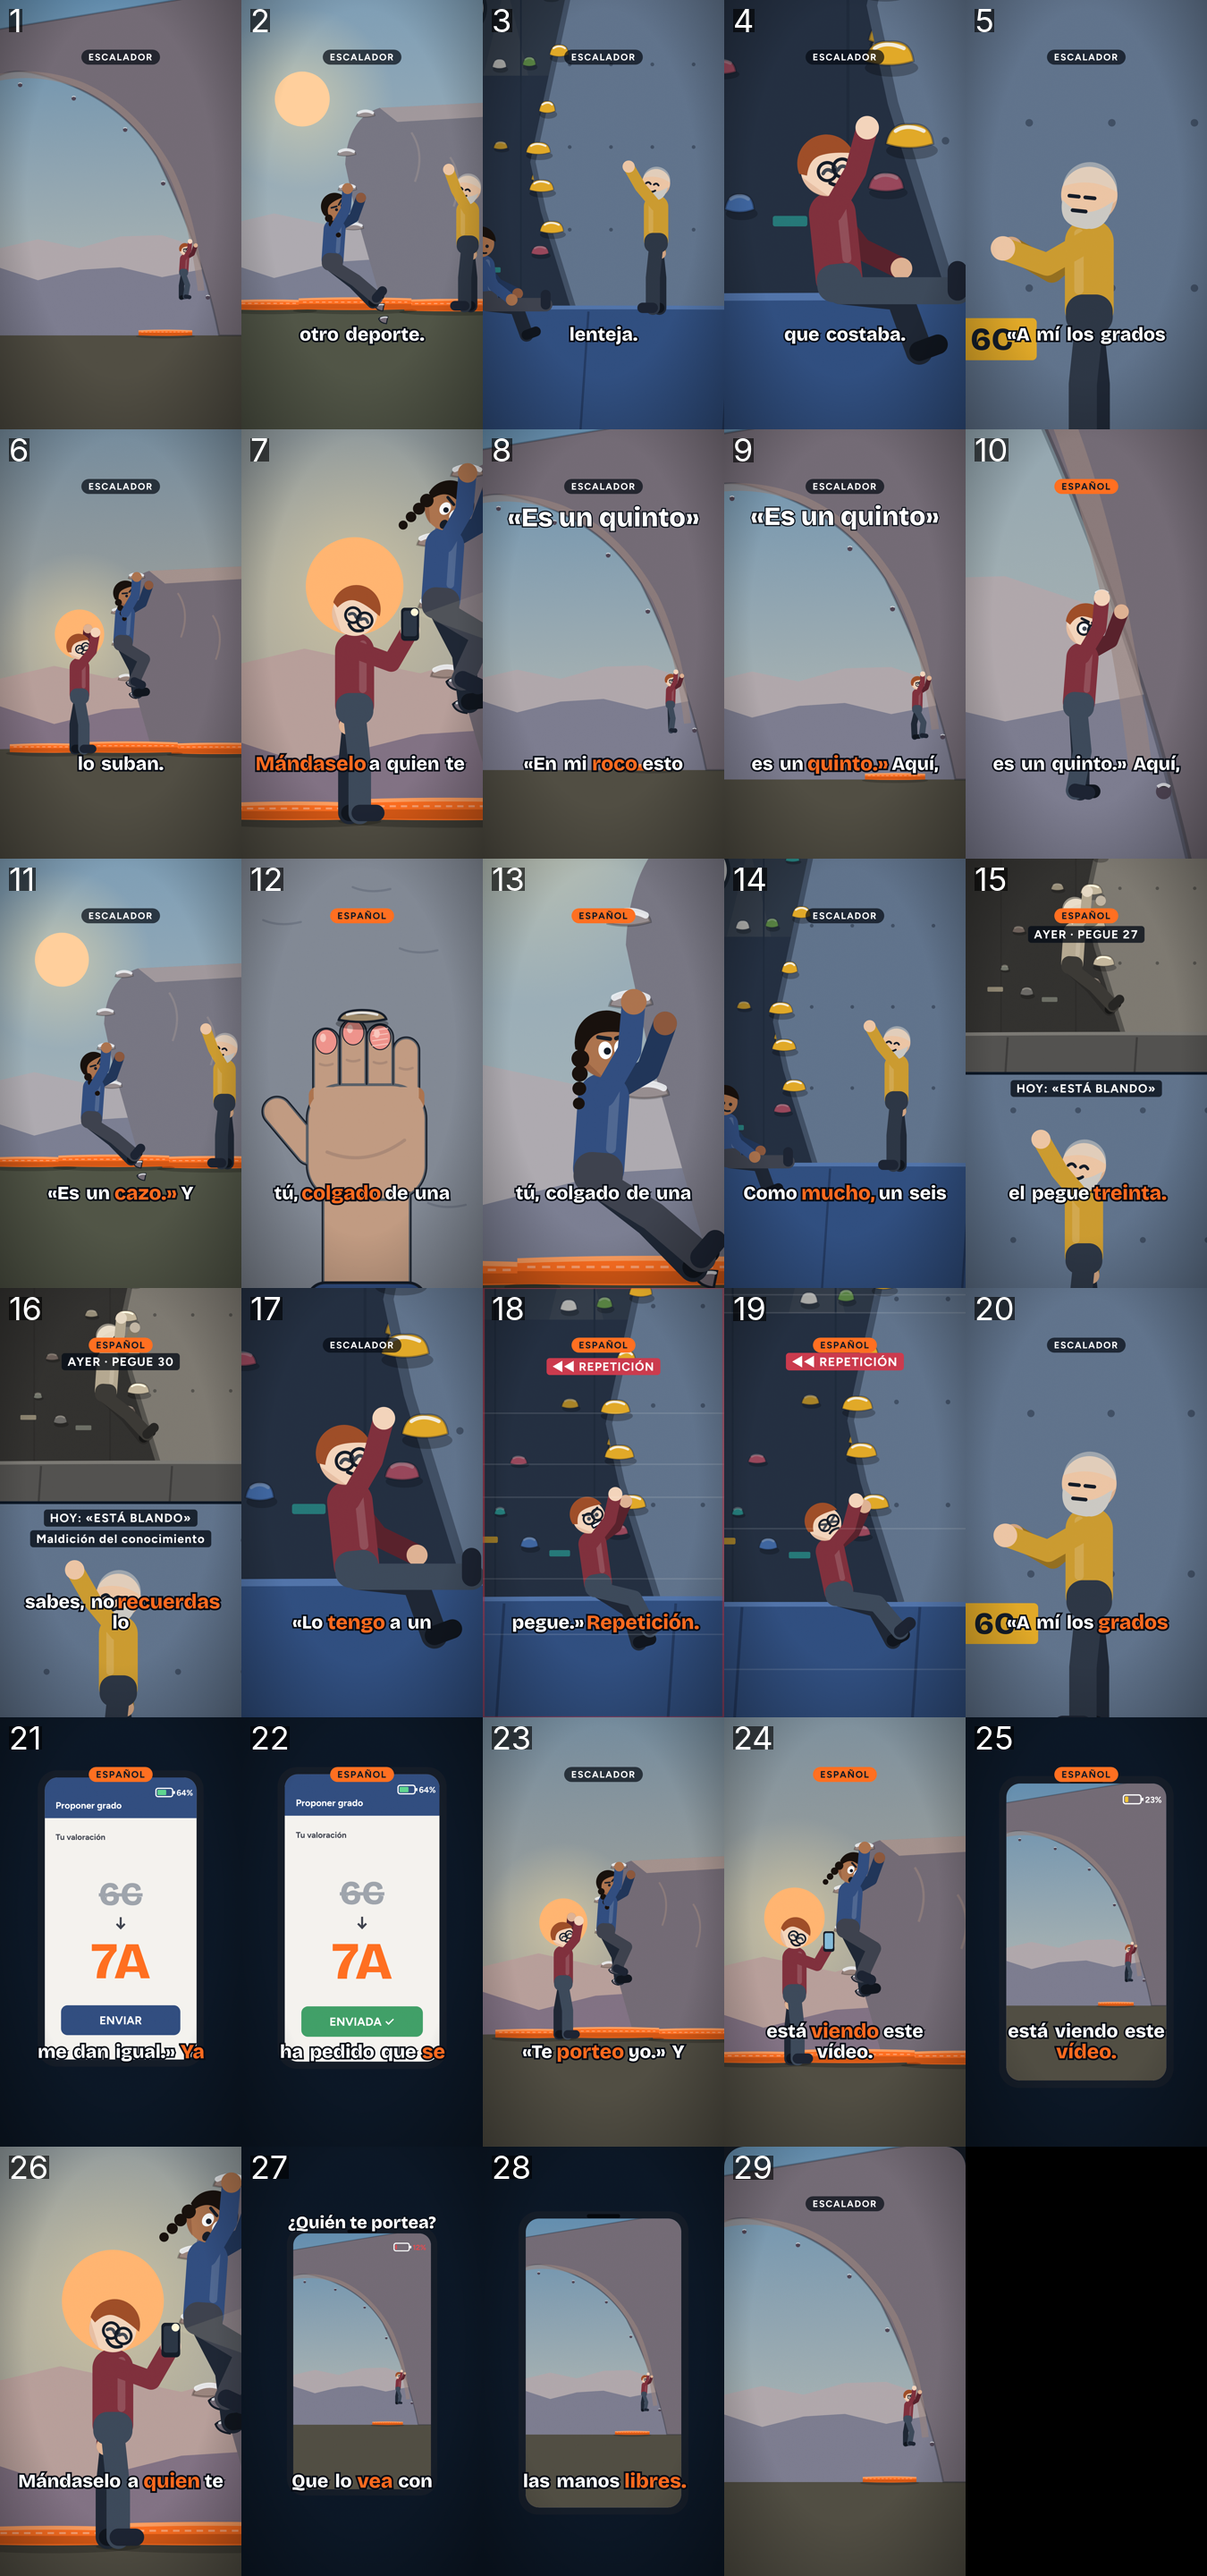
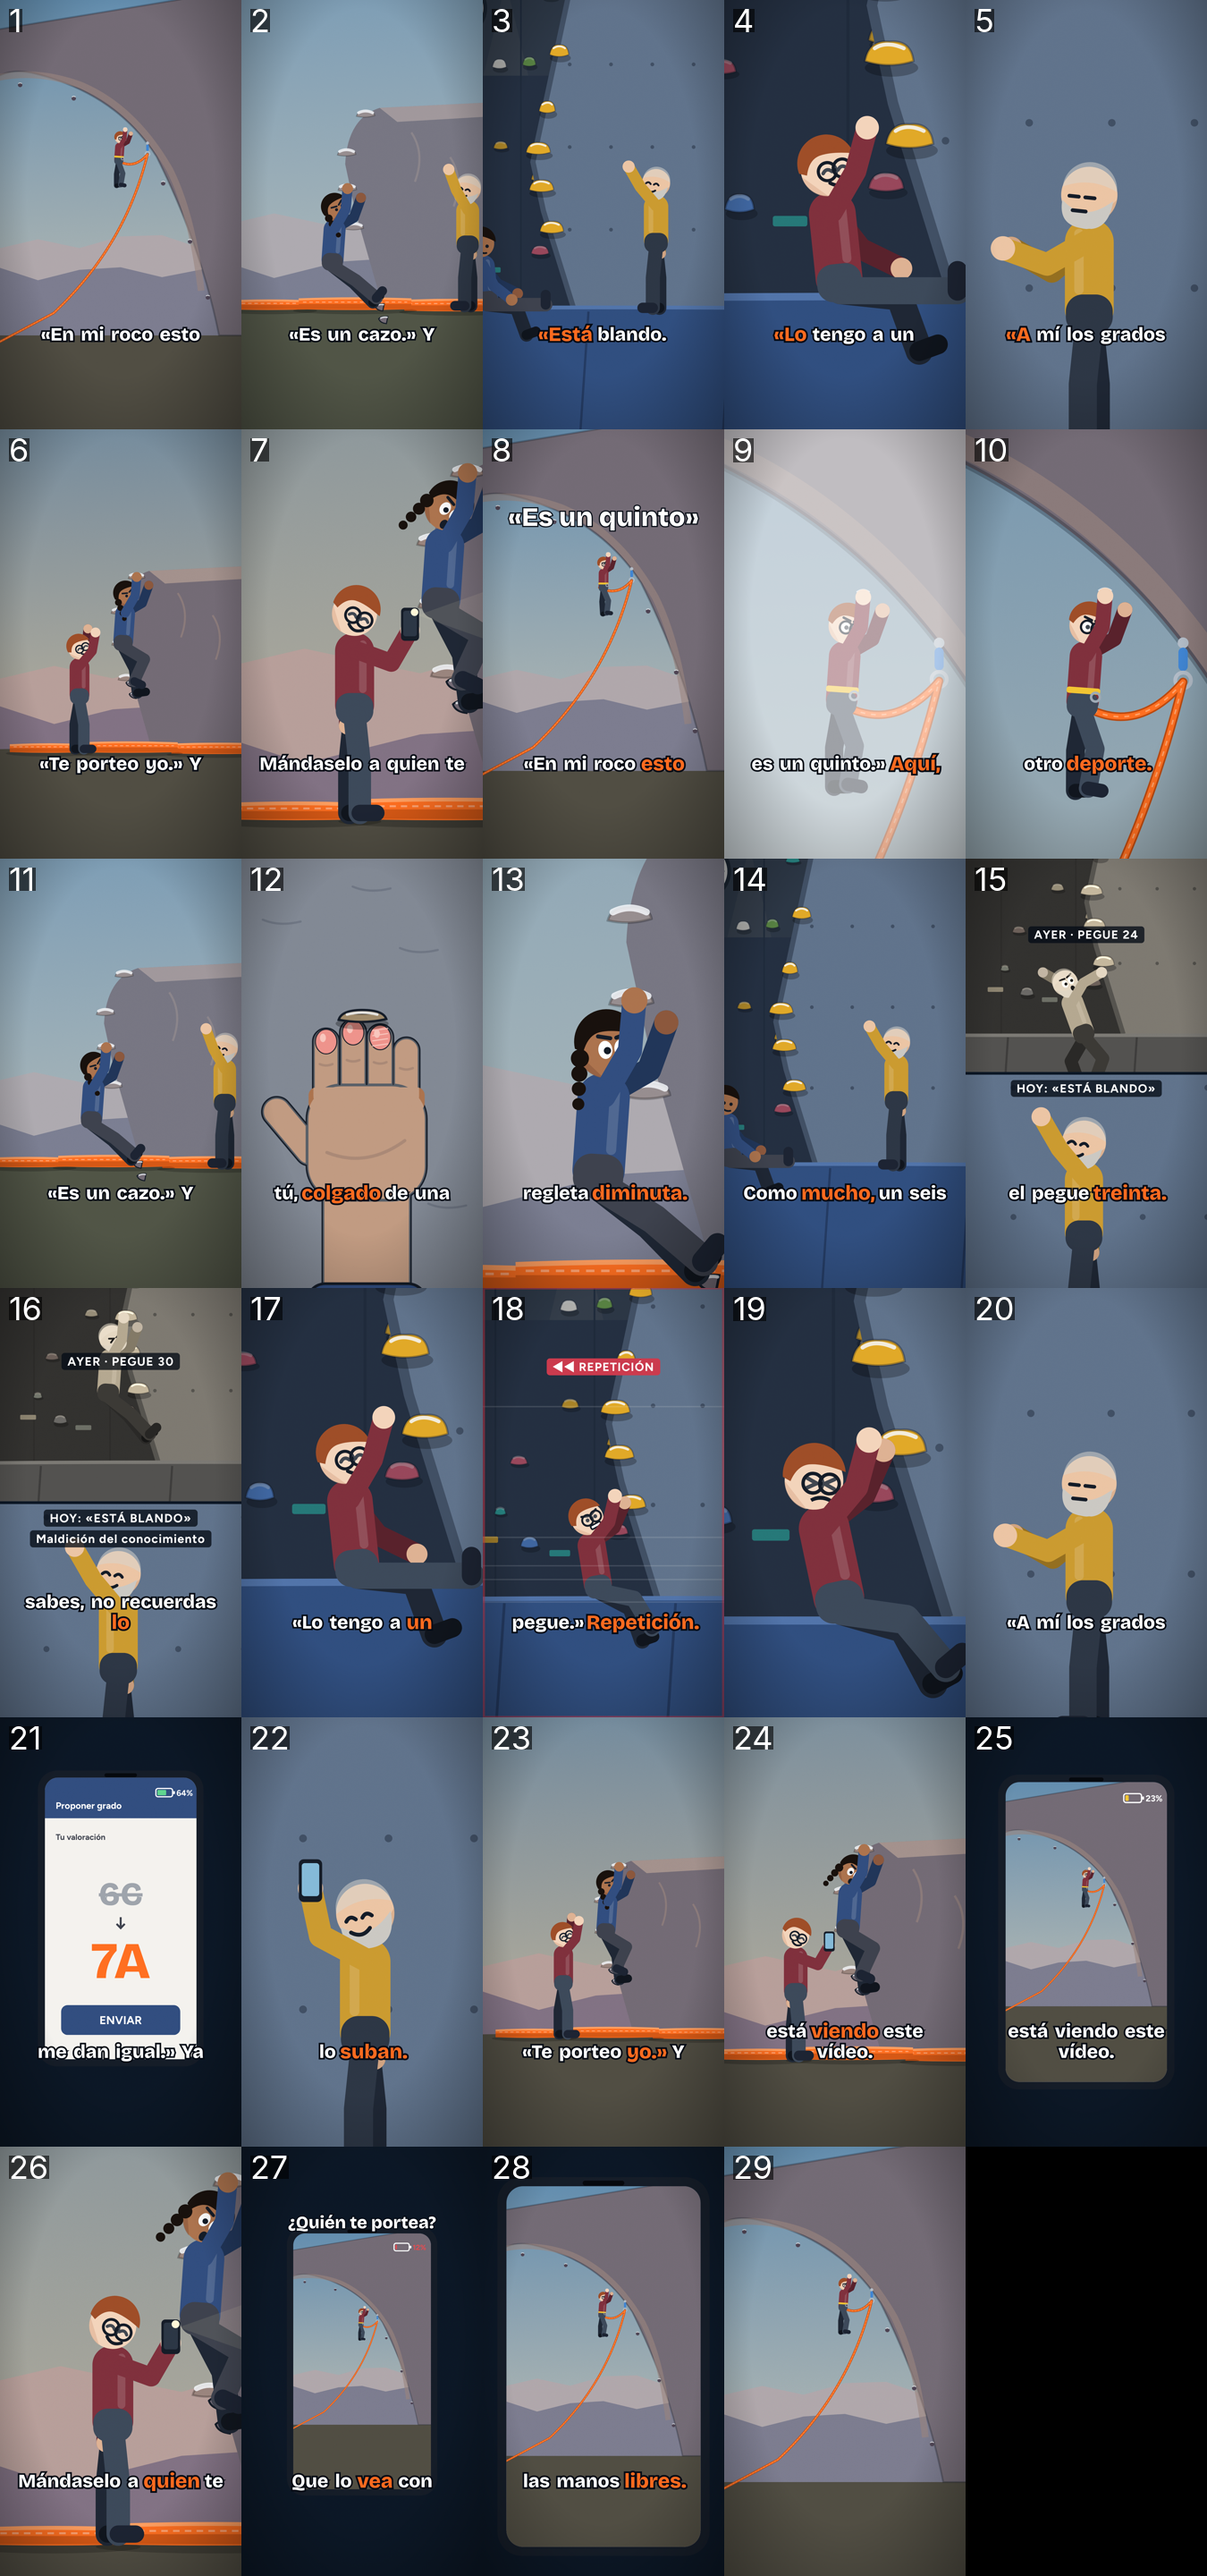
E3 v3.1: sin píldora de idioma, gancho en vía con arnés y cuerda, sincronía por frases (guion.frases), sin sol tras las cabezas, bucle limpio
Claude-Session: https://claude.ai/code/session_012ey2pUwXYDtcmy2UCgaYYS

diff --git a/src/historias/Traductor/Roco.tsx b/src/historias/Traductor/Roco.tsx
@@ -1,9 +1,9 @@
-// 3 · «En mi roco esto es un seis A.» (Nico de cerca, chulo, ya bajo el desplome) → aquí, otro deporte (la cámara se aleja: un techo enorme y él diminuto).
+// 1 · «En mi roco esto es un quinto.» (vía: Nico con arnés y cuerda, colgado en lo alto del desplome) → aquí, otro deporte (la cámara se aleja: un techo enorme y él diminuto).
 import React from "react";
 import { Easing, interpolate, useCurrentFrame } from "remotion";
 import { Cielo } from "../Pegue/comun";
-import { CrashPad } from "../../piezas/CrashPad";
-import { Camara, Etiqueta, Nico, Partida, Planos, Svg, Zoom, clamp, type P } from "./comun";
+import { Escalador } from "../../piezas/Escalador";
+import { Camara, Cuerda, Etiqueta, NICO, Partida, Planos, Svg, Zoom, clamp, type P } from "./comun";
 
 /** v3: es el gancho. Fotograma 0 = el desplome entero con Nico diminuto y chulo; rótulo a los 0,5 s; luego su cara de miedo. */
 export const Roco: React.FC<P> = (p) => <Partida p={p} dice={(d) => <><Techo d={d} modo="ancho" /><Etiqueta texto="«Es un quinto»" top={330} tam={118} desde={15} /></>} significa={(d) => <Techo d={d} modo="cara" />} />;
@@ -25,16 +25,18 @@ const Techo: React.FC<{ d: number; modo: Modo }> = ({ d, modo }) => {
 const TechoSvg: React.FC<{ modo: Modo; k: number; fr?: number }> = ({ modo, k, fr = 0 }) => {
   const cara = modo === "cara";
   const z = 3 + (1 - 3) * k, cx = 744 + (540 - 744) * k, cy = 1290 + (1100 - 1290) * k;
-  return (<g transform={cara ? `translate(540 860) scale(3.4) translate(-830 -1110)` : `translate(540 1100) scale(${z}) translate(${-cx} ${-cy})`}>
+  return (<g transform={cara ? `translate(540 860) scale(3.4) translate(-536 -612)` : `translate(540 1100) scale(${z}) translate(${-cx} ${-cy})`}>
         <Cielo h={0.4} id="techo" sol={false} />
         <path d={`M-300 ${SU} L1400 ${SU} L1400 2400 L-300 2400 Z`} fill="#4D4A40" />
         {/* desplome gigante: entra por la derecha y se tumba por encima de la cabeza */}
         <path d={`M1400 ${SU} L980 ${SU} Q900 1100 700 700 Q520 420 160 330 Q40 300 -40 360 L-60 140 L1400 -100 Z`} fill="#6E6670" stroke="#141B26" strokeOpacity={0.3} strokeWidth={8} />
         <path d={`M-60 360 Q140 300 360 380 Q600 480 760 760 Q860 960 900 1300`} stroke="#957F78" strokeWidth={30} fill="none" opacity={0.6} />
         {[[90, 380], [330, 440], [560, 580], [730, 820], [850, 1080], [930, 1330]].map(([x, y], i) => <g key={i}><circle cx={x} cy={y} r={10} fill="#4B4150" /><path d={`M${x - 8} ${y - 6} q8 -6 16 0`} stroke="#F4F7FA" strokeWidth={4} opacity={0.8} /></g>)}
-        <CrashPad x={620} y={SU - 26} w={240} grosor={26} />
+        {/* vía: cinta en el techo y cuerda hasta el asegurador (fuera de plano, abajo a la izquierda) */}
+        <circle cx={660} cy={640} r={7} fill="#AEB8C4" /><rect x={654} y={646} width={12} height={30} rx={6} fill="#3D7FD0" /><circle cx={660} cy={688} r={10} fill="none" stroke="#AEB8C4" strokeWidth={5} />
+        <Cuerda d={`M${531 + Math.sin(fr / 6) * 10} 720 Q600 760 660 690 Q560 1100 240 1400 L-60 1560`} w={7} />
         {/* colgado de la presa del techo, pies sueltos, balanceándose */}
-        <g transform={`rotate(${Math.sin(fr / 6) * 4} 850 1080)`}><Nico x={821} y={1226} s={0.8} pose="escalando" cara={cara ? "miedo" : "esfuerzo"} angulos={{ piernaA: [20 + Math.sin(fr / 4) * 14, -10], piernaB: [-10 - Math.sin(fr / 4) * 14, 0], cabeza: cara ? 10 : -20 }} /></g>
+        <g transform={`rotate(${Math.sin(fr / 6) * 4} 560 580)`}><Escalador quien="simon" aspecto={{ ...NICO, arnes: true }} x={531} y={726} s={0.8} pose="escalando" cara={cara ? "miedo" : "esfuerzo"} angulos={{ piernaA: [20 + Math.sin(fr / 4) * 14, -10], piernaB: [-10 - Math.sin(fr / 4) * 14, 0], cabeza: cara ? 10 : -20 }} /></g>
       </g>
   );
 };

diff --git a/src/historias/Traductor/Porteo.tsx b/src/historias/Traductor/Porteo.tsx
@@ -5,7 +5,6 @@ import { Easing, interpolate, useCurrentFrame } from "remotion";
 import { PantallaMovil } from "../../piezas/Movil";
 import { AG, Camara, Cerca, Etiqueta, Fondo, LuciaColgada, Nico, Partida, Planos, Svg, Zoom, clamp, colgado, dePie, type P } from "./comun";
 import { PlanoDesplome } from "./Roco";
-import { Idioma } from "./comun";
 
 const H = colgado(AG.labio);
 
@@ -17,7 +16,7 @@ export const Porteo: React.FC<P> = (p) => <Partida p={p} dice={(d) => <Escena d=
 const CaraLucia: React.FC<{ d: number }> = ({ d }) => {
   const f = useCurrentFrame();
   return (<Camara d={d} empuje={0.12} entrada={false}><Svg><Cerca cx={H.x + 10} cy={H.y - 160} s={3.6}>
-    <Fondo h={0.6} id="porc" />
+    <Fondo sol={false} h={0.6} id="porc" />
     <LuciaColgada hx={H.x} hy={H.y} cara="miedo" cabeza={34} tiembla={Math.sin(f * 2.8) * 4} />
   </Cerca></Svg></Camara>);
 };
@@ -38,7 +37,7 @@ const Escena: React.FC<{ d: number; real?: boolean }> = ({ d, real }) => {
   return (
     <Camara d={d} empuje={0.04} entrada={!real}>
       <Svg><g transform={`translate(540 1000) scale(${z}) translate(-540 -1000)`}><Zoom s={1.35} cx={380} cy={1060} tx={540} ty={1040}>
-        <Fondo h={0.6} id={real ? "por1" : "por0"} />
+        <Fondo sol={false} h={0.6} id={real ? "por1" : "por0"} />
         <LuciaColgada hx={H.x} hy={H.y} cara={real ? "miedo" : "esfuerzo"} cabeza={real ? 30 : -30} tiembla={real ? Math.sin(f * 2.4) * 4 : 0} />
         {real
           ? <Nico x={250} y={dePie()} pose="grabando" objeto="movil" cara="alivio" angulos={{ cabeza: 22, brazoA: [70, 150] }} />
@@ -53,6 +52,7 @@ export const Cierre: React.FC<P> = ({ d, e }) => {
   const f = useCurrentFrame(), c0 = Math.round(d * 0.45), crece = Math.round(d * 0.7);
   if (f < c0) return <SeRie d={c0} />;
   const k = interpolate(f, [crece, d - 2], [0, 1], { ...clamp, easing: Easing.inOut(Easing.cubic) });
+  if (k > 0.97) return <Svg><PlanoDesplome /></Svg>;
   const s = 1.1 + k * (1080 / 560 - 1.1); // al final, el cristal ocupa exactamente los 1080 px
   return (
     <Camara d={d} empuje={0} entrada={false}>
@@ -63,7 +63,6 @@ export const Cierre: React.FC<P> = ({ d, e }) => {
         </PantallaMovil>
       </Svg>
       {k === 0 && <Etiqueta texto={e.titulo} top={300} tam={78} />}
-      {k > 0.97 && <Idioma real={false} />}
     </Camara>
   );
 };
@@ -72,7 +71,7 @@ export const Cierre: React.FC<P> = ({ d, e }) => {
 const SeRie: React.FC<{ d: number }> = ({ d }) => {
   const f = useCurrentFrame(), risa = Math.abs(Math.sin(f / 2.2)) * 6;
   return (<Camara d={d} empuje={0.1} entrada={false}><Svg><Cerca cx={262} cy={dePie() - 150} s={2.8}>
-    <Fondo h={0.6} id="serie" />
+    <Fondo sol={false} h={0.6} id="serie" />
     <LuciaColgada hx={H.x} hy={H.y} cara="miedo" cabeza={34} tiembla={Math.sin(f * 2.8) * 5} />
     <Nico x={250} y={dePie() - risa} pose="grabando" objeto="movilLuz" cara="alivio" angulos={{ cabeza: 24, brazoA: [70, 150] }} />
   </Cerca></Svg></Camara>);

diff --git a/src/historias/Traductor/comun.tsx b/src/historias/Traductor/comun.tsx
@@ -7,6 +7,7 @@ import type { Aspecto } from "../../piezas/Rasgos";
 import { fuenteTexto } from "../../tema";
 import { PresaPie, trepa } from "../Bloque/comun";
 import { C, Zoom, clamp, type P } from "../Pegue/comun";
+export { Cuerda } from "../Pegue/comun";
 export { AG, Fondo, PAD, Planos, SUELO, TOP, colgado, dePie, sentado, trepa } from "../Bloque/comun";
 export { C, Camara, Etiqueta, Svg, Zoom, clamp, golpe, type P } from "../Pegue/comun";
 
@@ -45,7 +46,7 @@ const Destello: React.FC = () => {
 };
 
 /** Escena partida: `dice` hasta el corte, `significa` después (cada una recibe su duración). */
-export const Partida: React.FC<{ p: P; dice: (d: number) => React.ReactNode; significa: (d: number) => React.ReactNode; pildora?: boolean }> = ({ p, dice, significa, pildora = true }) => {
+export const Partida: React.FC<{ p: P; dice: (d: number) => React.ReactNode; significa: (d: number) => React.ReactNode; pildora?: boolean }> = ({ p, dice, significa, pildora = false }) => {
   const c = Math.max(1, Math.min(p.d - 1, fCorte(p))), d2 = p.d - c;
   return (<>
     <Sequence durationInFrames={c}>{dice(c)}{pildora && <Idioma real={false} />}</Sequence>

diff --git a/src/historias/Bloque/comun.tsx b/src/historias/Bloque/comun.tsx
@@ -58,11 +58,11 @@ export const Colgado: React.FC<{ hx: number; hy: number; cara?: import("../../pi
 };
 
 /** Fondo completo: cielo (hora h), suelo, bloque, agarres con magnesio y pads. `pads` = cuántos quedan (1–3). */
-export const Fondo: React.FC<{ h: number; id: string; pads?: number; hundido?: number }> = ({ h, id, pads = 3, hundido = 0 }) => {
+export const Fondo: React.FC<{ h: number; id: string; pads?: number; hundido?: number; sol?: boolean }> = ({ h, id, pads = 3, hundido = 0, sol = true }) => {
   const t = tonos(h);
   return (
     <g>
-      <Cielo h={h} id={id} />
+      <Cielo h={h} id={id} sol={sol} />
       {h > 0.9 && Array.from({ length: 45 }).map((_, i) => <circle key={i} cx={random(`bx${i}`) * 1080} cy={random(`by${i}`) * 950} r={1.5 + random(`br${i}`) * 2.5} fill="#fff" opacity={0.3 + 0.5 * random(`bo${i}`)} />)}
       <path d={`M-300 ${SUELO} Q540 ${SUELO - 26} 1400 ${SUELO} L1400 2400 L-300 2400 Z`} fill={t.suelo} />
       {[40, 150, 980].map((x, i) => <path key={i} d={`M${x} ${SUELO + 2} q8 -40 16 0 q6 -30 14 0 q8 -34 16 0`} fill={h > 0.9 ? "#121A1F" : "#5F7253"} />)}

diff --git a/src/historias/Traductor/Cazo.tsx b/src/historias/Traductor/Cazo.tsx
@@ -12,7 +12,7 @@ export const Cazo: React.FC<P> = (p) => <Partida p={p} dice={(d) => <Dice d={d} 
 const CaraCazo: React.FC<{ d: number }> = ({ d }) => {
   const f = useCurrentFrame();
   return (<Camara d={d} empuje={0.1} entrada={false}><Svg><Cerca cx={H.x + 10} cy={H.y - 160} s={3.6}>
-    <Fondo h={0.35} id="cazc" />
+    <Fondo sol={false} h={0.35} id="cazc" />
     <LuciaColgada hx={H.x} hy={H.y} cara="miedo" cabeza={-8} tiembla={Math.sin(f * 2.8) * 3} />
   </Cerca></Svg></Camara>);
 };
@@ -20,7 +20,7 @@ const CaraCazo: React.FC<{ d: number }> = ({ d }) => {
 const Dice: React.FC<{ d: number }> = ({ d }) => (
   <Camara d={d} empuje={0.05}>
     <Svg><Zoom s={1.5} cx={420} cy={1100} tx={540} ty={1000}>
-      <Fondo h={0.35} id="caz" />
+      <Fondo sol={false} h={0.35} id="caz" />
       <LuciaColgada hx={H.x} hy={H.y} cara="esfuerzo" cabeza={-40} />
       <Paco x={720} y={dePie(1.25)} pose="senalando" mira={-1} cara="alivio" angulos={{ brazoA: [150, 160], cabeza: -14 }} />
     </Zoom></Svg>

diff --git a/src/historias/Traductor/Regalado.tsx b/src/historias/Traductor/Regalado.tsx
@@ -64,7 +64,7 @@ const Ayer: React.FC<{ f: number }> = ({ f }) => {
   </Zoom></Svg>);
 };
 const Hoy: React.FC<{ f: number }> = ({ f }) => (
-  <Svg><Zoom s={2.6} cx={704} cy={dePieR(1.25) - 175} tx={540} ty={400}>
+  <Svg><Zoom s={2.6} cx={704} cy={dePieR(1.25) - 175} tx={540} ty={300}>
     <Rocodromo />
     <Paco x={700} y={dePieR(1.25) - Math.abs(Math.sin(f / 5)) * 3} pose="senalando" mira={-1} cara="alivio" angulos={{ brazoA: [140, 150], cabeza: -10 }} />
   </Zoom></Svg>

diff --git a/CLAUDE.md b/CLAUDE.md
@@ -36,7 +36,7 @@ Cuenta anónima de reels animados en español de España (Instagram + TikTok), p
 - `videos/<nicho>/<id>/guion.json` (escenas con `texto` hablado, `visual` = escena a medida, `titulo` = rótulo de dato, `pausa` = silencio en s) · `sonido.json` · `publicacion.md` · `final.mp4` (no se sube a git).
 - `src/historias/<Plantilla>.tsx`: escenas a medida por vídeo (ej. `Vacio.tsx` para E15). `src/piezas/`: personajes y elementos reutilizables (`Escalador.tsx`: Joe/Simon con poses por ángulos y caras; `Grano.tsx`: grano + viñeta). Hoja de poses: plantilla `Poses` con `public/datos/_poses.json`.
 - `src/Reel.tsx`: plantilla genérica antigua de tarjetas de texto. **No usar para vídeos publicables**; solo pruebas.
-- Herramientas: `npm run texto -- <id>` (texto para ElevenLabs) · `npm run voz -- <id> --audio ruta` (sincroniza audio subido; `--simulado` sin audio) · `npm run qa -- <id>` · `npm run render -- <id>` · `npm run fotograma -- <id> <segundo>` (imagen fija para storyboard) · `npm run hoja -- <id>` (un fotograma por escena + hoja de contacto en `out/<id>-hoja.png`; `MOMENTOS=24.5,25` añade instantes) · `npm run sonido -- <id>` (efectos de `sonido.json`, ver `docs/sonido.md`) · `npm run whisper` (una vez, mejora la sincronía).
+- Herramientas: `npm run texto -- <id>` (texto para ElevenLabs) · `npm run voz -- <id> --audio ruta` (sincroniza audio subido; `--simulado` sin audio) · `npm run qa -- <id>` · `npm run render -- <id>` · `npm run fotograma -- <id> <segundo>` (imagen fija para storyboard) · `npm run hoja -- <id>` (un fotograma por escena + hoja de contacto en `out/<id>-hoja.png`; `MOMENTOS=24.5,25` añade instantes) · `npm run sonido -- <id>` (efectos de `sonido.json`, ver `docs/sonido.md`) · `npm run whisper` (una vez, mejora la sincronía; en la nube de Claude no se puede descargar). Sin Whisper, si la voz se desincroniza: pon en `guion.json` `"frases": [palabras por tramo de voz]` (un número por cada trozo entre pausas del audio) y repite `npm run voz`.
 
 ## Si no eres Andrés
 Lee `docs/colaborar.md`: rama por vídeo, pull request, sin tocar los gustos de Andrés, voz la genera él.

diff --git a/docs/no-me-gusta.md b/docs/no-me-gusta.md
@@ -23,6 +23,9 @@ Registro acumulativo. **Léelo antes de escribir un guion o enseñar un vídeo.*
 - 2026-10-28 · (E3 v1) El bloque exterior como escenario de todo: «muy visto». Variar escenarios en cada vídeo (rocódromo, desplome, exterior).
 - 2026-10-28 · (E3 v1) Conformarse con un 6/10 del crítico: hay que subirlo antes de enseñar.
 - 2026-10-28 · (E3 v2) Macro de la mano cerrando regleta (pieza ManoRegleta): «quedan feas». No usar manos de perfil así.
+- 2026-10-28 · (E3 v3) Píldora «ESCALADOR/ESPAÑOL»: no se entiende para qué está. Quitada.
+- 2026-10-28 · (E3 v3) Escalador colgado alto sin cuerda ni arnés: poco real. Si está alto, vía con arnés y cuerda.
+- 2026-10-28 · (E3) Voz y subtítulos que no dicen lo mismo (texto cambiado en ElevenLabs) → se desincroniza. Si se cambia el texto en ElevenLabs, avisar para actualizar `guion.json`.
 
 ## Sí
 - 2026-10-27 · Caras y expresiones de los personajes de E15 v2: son la identidad.
